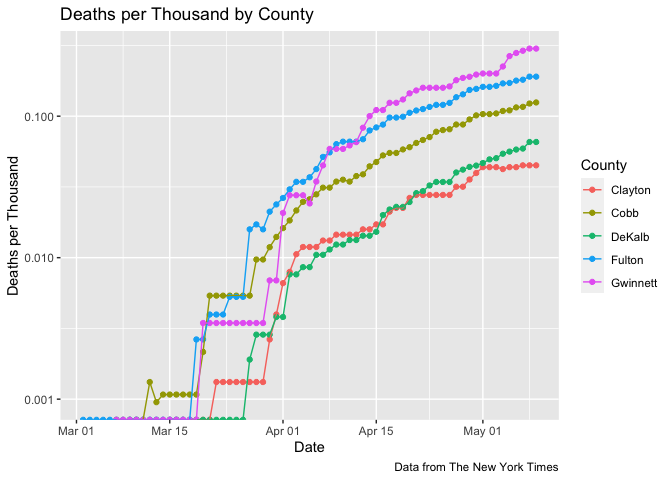
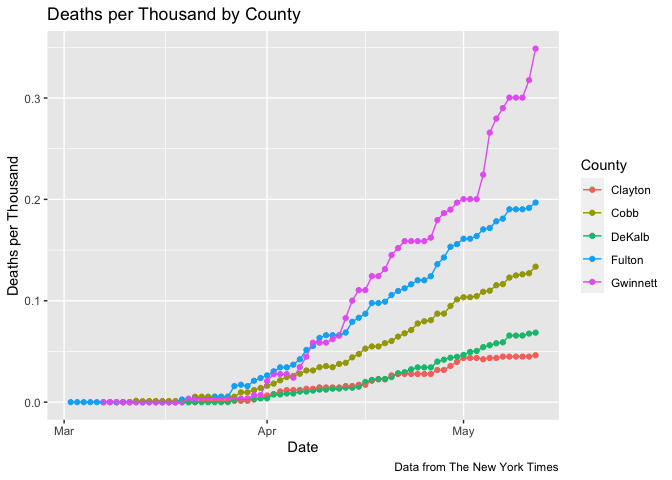
decided not to use log scale and updated data

diff --git a/Metro_Atlanta_COVID.md b/Metro_Atlanta_COVID.md
@@ -16,7 +16,7 @@ It’s hard to know how to interpret these numbers since there are major
 known unknowns. Neither confirmed cases nor deaths can be said to be
 reliable counts of the true numbers.
 
-Data current as of May 11,
+Data current as of May 13,
 2020.
 
 # Metro Atlanta
